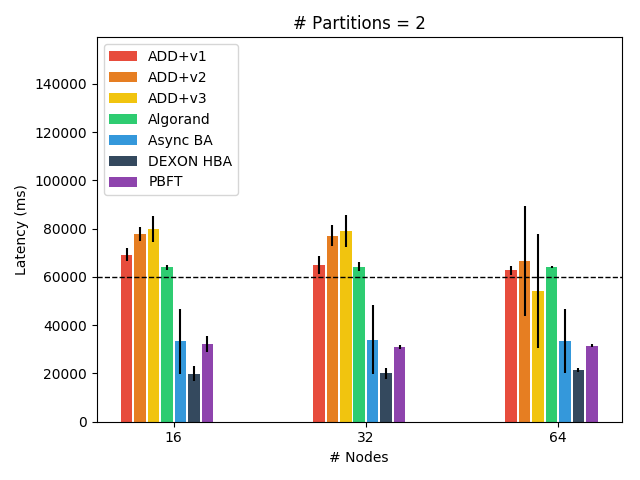
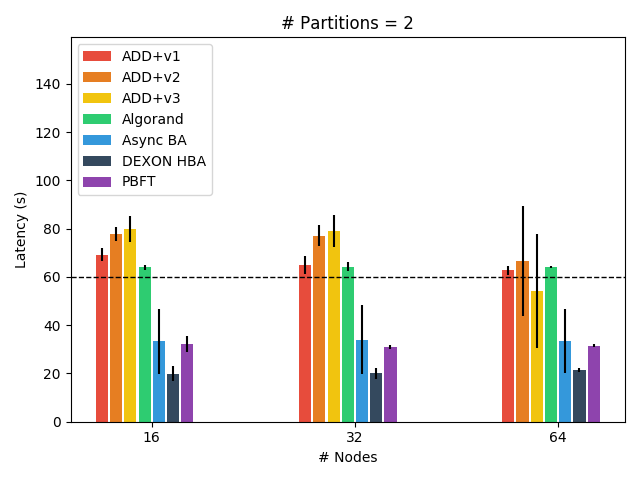
partition ms to s

diff --git a/partition2.py b/partition2.py
@@ -1,44 +1,44 @@
 data = {
     'dexon-hba': {
-        'l_mean': [21664, 21987, 22743],
-        'l_std': [2411, 1911, 1187],
-        'm_mean': [1941, 8169, 33751],
-        'm_std': [1080, 876, 734]
+        'l_mean': [19842, 20054, 21452],
+        'l_std': [3082, 2340, 786],
+        'm_mean': [1944, 8186, 34500],
+        'm_std': [80, 243, 351]
     },
     'pbft': {
-        'l_mean': [35484, 34880, 35782],
-        'l_std': [3664, 769, 731],
-        'm_mean': [2084, 8528, 34450],
-        'm_std': [68, 130, 392]
+        'l_mean': [32334, 30936, 31511],
+        'l_std': [3345, 865, 566],
+        'm_mean': [2147, 8691, 35297],
+        'm_std': [7, 8, 15]
     },
     'v-basic': {
-        'l_mean': [70270, 70270, 70267],
-        'l_std': [9, 5, 4],
-        'm_mean': [3508, 14184, 56994],
-        'm_std': [36, 105, 286]
+        'l_mean': [69233, 64919, 62678],
+        'l_std': [2697, 3773, 1749],
+        'm_mean': [3807, 14469, 57555],
+        'm_std': [56, 294, 756]
     },
     'v-vrf': {
-        'l_mean': [74759, 74601, 76032],
-        'l_std': [6643, 6746, 5565],
-        'm_mean': [9638, 39756, 164627],
-        'm_std': [164, 688, 2305]
+        'l_mean': [77790, 76990, 66457],
+        'l_std': [2743, 4364, 22805],
+        'm_mean': [10032, 41182, 145109],
+        'm_std': [70, 492, 9519]
     },
     'v-adaptive': {
-        'l_mean': [82270, 82270, 82267],
-        'l_std': [10, 6, 4],
-        'm_mean': [9147, 37737, 153216],
-        'm_std': [22, 55, 0]
+        'l_mean': [79752, 78957, 54120],
+        'l_std': [5405, 6666, 23483],
+        'm_mean': [9377, 38790, 109716],
+        'm_std': [92, 452, 5923]
     },
     'algorand': {
-        'l_mean': [64911, 66213, 63836],
-        'l_std': [1977, 572, 1842],
-        'm_mean': [8900, 38444, 145250],
-        'm_std': [121, 150, 1908]
+        'l_mean': [63996, 64176, 64009],
+        'l_std': [1107, 1878, 436],
+        'm_mean': [9362, 39149, 156926],
+        'm_std': [59, 365, 466]
     },
     'aba': {
-        'l_mean': [36661, 38919, 41056],
-        'l_std': [15267, 15511, 15970],
-        'm_mean': [36830, 326711, 2743326],
-        'm_std': [7507, 63053, 524746]
+        'l_mean': [33342, 33976, 33524],
+        'l_std': [13465, 14228, 13322],
+        'm_mean': [36432, 311457, 2324562],
+        'm_std': [6158, 65087, 395971]
     }
 }

diff --git a/draw-par.py b/draw-par.py
@@ -3,7 +3,7 @@ import matplotlib.pyplot as plt
 import numpy as np
 import normal1, normal2
 import l04, l2
-import partition, partition2
+import partition2, partition3
 import static, adaptive, dexon
 '''
 def autolabel(rects, ax, xpos='center'):
@@ -30,10 +30,10 @@ seperateDist = 0.04
 def draw(expData):
     fig, ax = plt.subplots()
     # Add some text for labels, title and custom x-axis tick labels, etc.
-    ax.set_ylabel('Latency (ms)')
+    ax.set_ylabel('Latency (s)')
     ax.set_xlabel('# Nodes')
     #ax.set_title(r'$Network = \mathcal{N}(250, 50), \lambda = 1000$')
-    ax.set_title('# Partitions = 2')
+    ax.set_title('# Partitions = 3')
     ind = np.arange(len(expData[0]['means']))  # the x locations for the groups
     ax.set_xticks(ind)
     ax.set_xticklabels(('16', '32', '64'))
@@ -49,14 +49,14 @@ def draw(expData):
         
         #autolabel(rects, ax)
     print(yMax)
-    plt.ylim(top=yMax + 70000)
+    plt.ylim(top=yMax + 70)
     ax.legend(loc='upper left')
     fig.tight_layout()
-    plt.axhline(60000, color='k', linestyle='dashed', linewidth=1)
+    plt.axhline(60, color='k', linestyle='dashed', linewidth=1)
     #plt.text(2, 2, 'resolve', ha='right', va='center')
     plt.show()
 
-data = partition.data
+data = partition3.data
 t = 'l'
 mean = t + '_mean'
 std = t + '_std'
@@ -104,6 +104,11 @@ expData = [
         'color': '#8e44ad'
     }
 ]
+# latency ms to s
+if (t == 'l'):
+    for data in expData:
+        data['means'] = [i / 1000 for i in data['means']]
+        data['std'] = [i / 1000 for i in data['std']]
 # calculate pos
 l = len(expData)
 poss = range(0, l)

diff --git a/partition3.py b/partition3.py
@@ -1,0 +1,44 @@
+data = {
+    'dexon-hba': {
+        'l_mean': [21664, 21987, 22743],
+        'l_std': [2411, 1911, 1187],
+        'm_mean': [1941, 8169, 33751],
+        'm_std': [1080, 876, 734]
+    },
+    'pbft': {
+        'l_mean': [35484, 34880, 35782],
+        'l_std': [3664, 769, 731],
+        'm_mean': [2084, 8528, 34450],
+        'm_std': [68, 130, 392]
+    },
+    'v-basic': {
+        'l_mean': [70270, 70270, 70267],
+        'l_std': [9, 5, 4],
+        'm_mean': [3508, 14184, 56994],
+        'm_std': [36, 105, 286]
+    },
+    'v-vrf': {
+        'l_mean': [74759, 74601, 76032],
+        'l_std': [6643, 6746, 5565],
+        'm_mean': [9638, 39756, 164627],
+        'm_std': [164, 688, 2305]
+    },
+    'v-adaptive': {
+        'l_mean': [82270, 82270, 82267],
+        'l_std': [10, 6, 4],
+        'm_mean': [9147, 37737, 153216],
+        'm_std': [22, 55, 0]
+    },
+    'algorand': {
+        'l_mean': [64911, 66213, 63836],
+        'l_std': [1977, 572, 1842],
+        'm_mean': [8900, 38444, 145250],
+        'm_std': [121, 150, 1908]
+    },
+    'aba': {
+        'l_mean': [36661, 38919, 41056],
+        'l_std': [15267, 15511, 15970],
+        'm_mean': [36830, 326711, 2743326],
+        'm_std': [7507, 63053, 524746]
+    }
+}

diff --git a/draw-normal.py b/draw-normal.py
@@ -3,7 +3,7 @@ import matplotlib.pyplot as plt
 import numpy as np
 import normal1, normal2
 import l04, l2
-import partition, partition2
+import partition2, partition3
 import static, adaptive, dexon
 '''
 def autolabel(rects, ax, xpos='center'):

diff --git a/draw-attack.py b/draw-attack.py
@@ -3,7 +3,7 @@ import matplotlib.pyplot as plt
 import numpy as np
 import normal1, normal2
 import l04, l2
-import partition, partition2
+import partition2, partition3
 import static, adaptive, dexon
 
 colors = {

diff --git a/draw-res.py b/draw-res.py
@@ -3,7 +3,7 @@ import matplotlib.pyplot as plt
 import numpy as np
 import normal1, normal2
 import l04, l2
-import partition, partition2
+import partition2, partition3
 import static, adaptive, dexon
 
 colors = {
